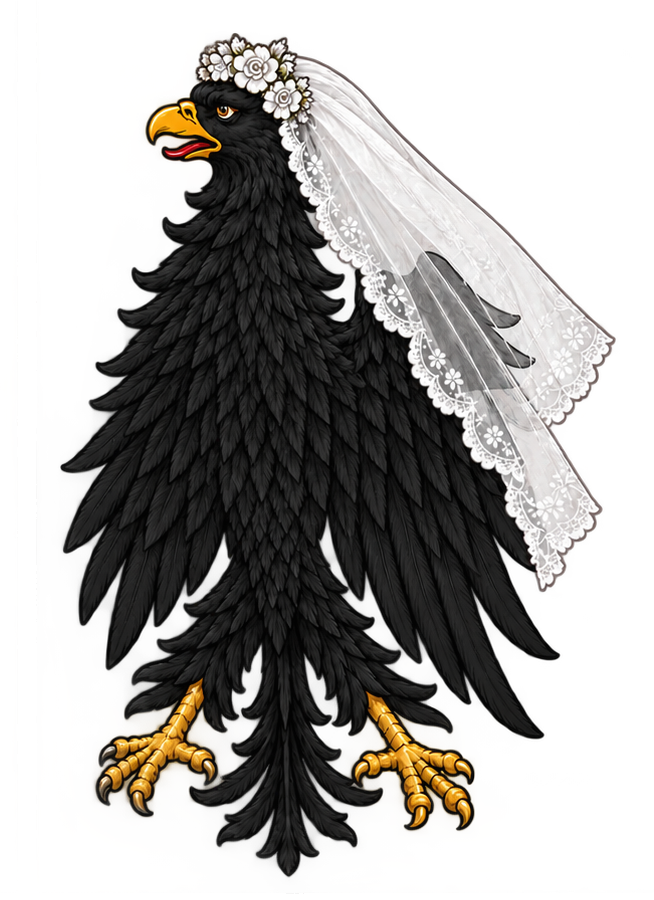
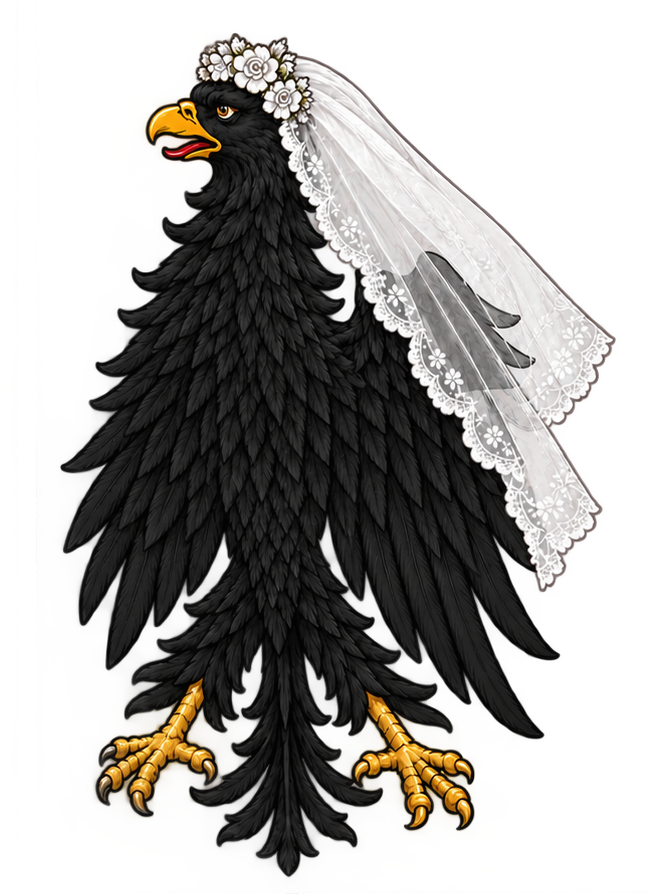
Add files via upload

diff --git a/index.html b/index.html
@@ -9,106 +9,84 @@
 <link href="https://fonts.googleapis.com/css2?family=Cormorant+Garamond:ital,wght@0,400;0,500;0,600;1,400&family=Jost:wght@400;500&display=swap" rel="stylesheet">
 <style>
   :root{
-    --cream:#f7f1e7;
-    --cream-hi:#fdf9f2;
-    --ink:#3b332a;
-    --muted:#9a8d78;
-    --gold:#b8860b;
-    --gold-line:rgba(184,134,11,.38);
-    --nl-red:#ae1c28; --nl-blue:#21468b;
-    --at-red:#ed2939;
+    --cream:#f7f1e7; --cream-hi:#fdf9f2;
+    --ink:#3b332a; --muted:#9a8d78; --gold:#b8860b;
+    --nl-red:#ae1c28; --nl-blue:#21468b; --at-red:#ed2939;
     --ease:cubic-bezier(.22,.61,.36,1);
-    /* embrace geometry (from the composed artwork) */
-    --hero-w:615; --hero-h:560;
+    --hero-w:621; --hero-h:560;
   }
   *{box-sizing:border-box}
   html,body{height:100%}
-  body{
-    margin:0;color:var(--ink);
-    font-family:"Jost",system-ui,sans-serif;
-    -webkit-font-smoothing:antialiased;
+  body{margin:0;color:var(--ink);font-family:"Jost",system-ui,sans-serif;-webkit-font-smoothing:antialiased;
     min-height:100dvh;display:flex;flex-direction:column;
-    background:radial-gradient(ellipse 80% 70% at 50% 40%, var(--cream-hi), var(--cream) 78%);
-    overflow-x:hidden;
-  }
+    background:radial-gradient(ellipse 80% 70% at 50% 40%, var(--cream-hi), var(--cream) 78%);overflow-x:hidden}
 
-  .prompt{
-    text-align:center;padding:clamp(20px,4.5vh,48px) 20px 0;
-    font-family:"Cormorant Garamond",serif;line-height:1.12;
-  }
-  .prompt .nl,.prompt .de{display:block;font-weight:500;color:var(--ink)}
-  .prompt .nl{font-size:clamp(1.5rem,3.2vw,2.3rem)}
+  .prompt{text-align:center;padding:clamp(20px,4.5vh,48px) 20px 0;font-family:"Cormorant Garamond",serif;line-height:1.12}
+  .prompt .nl,.prompt .de{display:block;font-weight:500}
+  .prompt .nl{font-size:clamp(1.5rem,3.2vw,2.3rem);color:var(--ink)}
   .prompt .de{font-size:clamp(1.35rem,2.9vw,2.05rem);color:#5c5142}
-  .prompt .sep{display:block;width:46px;height:1px;margin:9px auto;
-    background:linear-gradient(90deg,transparent,var(--gold),transparent)}
+  .prompt .sep{display:block;width:46px;height:1px;margin:9px auto;background:linear-gradient(90deg,transparent,var(--gold),transparent)}
 
   .stage{flex:1;display:flex;flex-direction:column;align-items:center;justify-content:center;
-    padding:6px clamp(12px,4vw,40px) 2px;gap:6px}
+    padding:8px clamp(12px,4vw,40px) clamp(20px,5vh,48px);gap:10px}
 
-  /* ---- Hero: embracing crest, two stacked layers ---- */
-  .hero{
-    position:relative;
-    width:min(90vw,600px);
-    aspect-ratio:var(--hero-w) / var(--hero-h);
-  }
+  /* Hero: embracing crest, two stacked layers */
+  .hero{position:relative;width:min(90vw,600px);aspect-ratio:var(--hero-w) / var(--hero-h)}
   .hero img{position:absolute;bottom:0;width:auto;user-select:none;-webkit-user-drag:none;
     transition:filter .55s var(--ease),opacity .55s var(--ease)}
-  .hero .eagle{left:33.8%;height:100%;z-index:1}
-  .hero .lion{left:0;height:92.86%;z-index:2}
+  .hero .eagle{left:34.14%;height:100%;z-index:1}
+  .hero .lion{left:0;height:100%;z-index:2}
   .glow{position:absolute;inset:0;z-index:0;pointer-events:none;opacity:0;
-    background:radial-gradient(circle at 50% 55%, rgba(184,134,11,.16), transparent 62%);
-    transition:opacity .5s var(--ease)}
+    background:radial-gradient(circle at 50% 55%, rgba(184,134,11,.15), transparent 62%);transition:opacity .5s var(--ease)}
 
-  /* invisible split hit areas */
-  .pick{position:absolute;top:0;height:100%;width:50%;z-index:3;
-    display:block;cursor:pointer;background:transparent;border:0;outline:none;
+  /* invisible split hit areas over the crest */
+  .hit{position:absolute;top:0;height:100%;width:50%;z-index:3;display:block;cursor:pointer;
     -webkit-tap-highlight-color:transparent}
-  .pick.nl{left:0}
-  .pick.de{left:50%}
-  .pick:focus-visible{box-shadow:inset 0 0 0 2px var(--gold);border-radius:10px}
+  .hit.nl{left:0}.hit.de{left:50%}
+  .hit:focus-visible{box-shadow:inset 0 0 0 2px var(--gold);border-radius:10px}
 
-  /* ---- Desktop hover preview ---- */
-  @media (hover:hover) and (pointer:fine){
-    .hero:has(.pick.nl:hover) .eagle,
-    .hero:has(.pick.de:hover) .lion{filter:grayscale(1);opacity:.42}
-    .hero:has(.pick:hover) .glow{opacity:1}
-  }
-  /* ---- Touch selection mirrors the effect ---- */
-  .hero.sel-nl .eagle{filter:grayscale(1);opacity:.42}
-  .hero.sel-de .lion{filter:grayscale(1);opacity:.42}
-  .hero.sel-nl .glow,.hero.sel-de .glow{opacity:1}
-
-  /* ---- Labels under each beast ---- */
+  /* labels — now clickable */
   .labels{display:flex;width:min(90vw,600px)}
   .cell{flex:1;display:flex;flex-direction:column;align-items:center;gap:12px}
-  .meta{display:flex;align-items:center;gap:11px;transition:opacity .4s var(--ease)}
+  .label-link{display:inline-flex;align-items:center;justify-content:center;text-decoration:none;color:inherit;
+    cursor:pointer;border-radius:12px;padding:8px 16px;-webkit-tap-highlight-color:transparent;
+    transition:background .2s var(--ease)}
+  .label-link:hover{background:rgba(184,134,11,.08)}
+  .label-link:focus-visible{outline:none;box-shadow:0 0 0 2px var(--gold)}
+  .meta{display:flex;align-items:center;gap:11px;transition:opacity .45s var(--ease),filter .45s var(--ease)}
   .flag{width:34px;height:23px;border-radius:2px;overflow:hidden;flex:none;display:flex;flex-direction:column;
-    box-shadow:0 0 0 1px rgba(59,51,42,.18),0 2px 6px rgba(59,51,42,.18);transition:filter .4s var(--ease)}
+    box-shadow:0 0 0 1px rgba(59,51,42,.18),0 2px 6px rgba(59,51,42,.16)}
   .flag span{display:block;flex:1}
   .flag.nl span:nth-child(1){background:var(--nl-red)} .flag.nl span:nth-child(2){background:#fff} .flag.nl span:nth-child(3){background:var(--nl-blue)}
   .flag.at span:nth-child(1){background:var(--at-red)} .flag.at span:nth-child(2){background:#fff} .flag.at span:nth-child(3){background:var(--at-red)}
-  .label{font-size:1.12rem;letter-spacing:.02em;color:var(--ink)}
-  /* dim the non-selected label */
-  .hero-has-nl ~ .labels .cell.de .meta{opacity:.4}
-  .hero-has-de ~ .labels .cell.nl .meta{opacity:.4}
+  .label{font-size:1.12rem;letter-spacing:.02em;color:var(--ink);transition:color .45s var(--ease)}
 
-  .go{margin-top:2px;font-family:"Jost",sans-serif;font-size:1rem;letter-spacing:.03em;
-    color:#fff;background:var(--gold);border:0;border-radius:999px;cursor:pointer;
-    height:0;padding:0;overflow:hidden;opacity:0;transform:translateY(6px) scale(.96);pointer-events:none;
+  .go{font-family:"Jost",sans-serif;font-size:1rem;letter-spacing:.03em;color:#fff;background:var(--gold);
+    border:0;border-radius:999px;cursor:pointer;height:0;padding:0;overflow:hidden;
+    opacity:0;transform:translateY(6px) scale(.96);pointer-events:none;
     transition:opacity .35s var(--ease),transform .35s var(--ease),background .2s}
   .cell.show-go .go{height:auto;padding:11px 28px;opacity:1;transform:none;pointer-events:auto}
   .go:hover{background:#caa02a}
 
-  .crest{text-align:center;padding:8px 20px clamp(16px,4vh,32px)}
-  .crest img{width:min(300px,60vw);height:auto;opacity:.98}
-
-  /* Mobile: labels sit closer, hero a touch smaller */
-  @media (max-width:560px){
-    .hero{width:94vw}
-    .labels{width:94vw}
-    .label{font-size:1rem}
-    .crest img{width:min(260px,72vw)}
+  /* ===== Selection effects: the chosen side stays in colour, the other greys ===== */
+  @media (hover:hover) and (pointer:fine){
+    .stage:has(.choose.nl:hover) .eagle{filter:grayscale(1);opacity:.42}
+    .stage:has(.choose.de:hover) .lion{filter:grayscale(1);opacity:.42}
+    .stage:has(.choose.nl:hover) .cell.de .meta,
+    .stage:has(.choose.de:hover) .cell.nl .meta{filter:grayscale(1);opacity:.4}
+    .stage:has(.choose.nl:hover) .cell.de .label,
+    .stage:has(.choose.de:hover) .cell.nl .label{color:var(--muted)}
+    .stage:has(.choose:hover) .glow{opacity:1}
   }
+  .stage.sel-nl .eagle{filter:grayscale(1);opacity:.42}
+  .stage.sel-de .lion{filter:grayscale(1);opacity:.42}
+  .stage.sel-nl .cell.de .meta,
+  .stage.sel-de .cell.nl .meta{filter:grayscale(1);opacity:.4}
+  .stage.sel-nl .cell.de .label,
+  .stage.sel-de .cell.nl .label{color:var(--muted)}
+  .stage.sel-nl .glow,.stage.sel-de .glow{opacity:1}
+
+  @media (max-width:560px){.hero{width:94vw}.labels{width:94vw}.label{font-size:1rem}}
   @media (prefers-reduced-motion:reduce){*{transition-duration:.001ms!important}}
 </style>
 </head>
@@ -119,74 +97,56 @@
     <span class="de">Wähle deine Sprache</span>
   </div>
 
-  <main class="stage">
-    <div class="hero" id="hero">
+  <main class="stage" id="stage">
+    <div class="hero">
       <span class="glow" aria-hidden="true"></span>
       <img class="eagle" src="assets/eagle.png" alt="" aria-hidden="true" draggable="false">
       <img class="lion"  src="assets/lion.png"  alt="" aria-hidden="true" draggable="false">
-      <a class="pick nl" href="lorem_nl.html" data-lang="nl" aria-label="Nederlands"></a>
-      <a class="pick de" href="lorem_de.html" data-lang="de" aria-label="Deutsch"></a>
+      <a class="hit choose nl" href="lorem_nl.html" data-lang="nl" aria-label="Nederlands"></a>
+      <a class="hit choose de" href="lorem_de.html" data-lang="de" aria-label="Deutsch"></a>
     </div>
 
-    <div class="labels" id="labels">
+    <div class="labels">
       <div class="cell nl">
-        <span class="meta"><span class="flag nl" aria-hidden="true"><span></span><span></span><span></span></span><span class="label">Nederlands</span></span>
+        <a class="label-link choose nl" href="lorem_nl.html" data-lang="nl">
+          <span class="meta"><span class="flag nl" aria-hidden="true"><span></span><span></span><span></span></span><span class="label">Nederlands</span></span>
+        </a>
         <button class="go" type="button" data-go="lorem_nl.html" tabindex="-1">Ga verder</button>
       </div>
       <div class="cell de">
-        <span class="meta"><span class="flag at" aria-hidden="true"><span></span><span></span><span></span></span><span class="label">Deutsch</span></span>
+        <a class="label-link choose de" href="lorem_de.html" data-lang="de">
+          <span class="meta"><span class="flag at" aria-hidden="true"><span></span><span></span><span></span></span><span class="label">Deutsch</span></span>
+        </a>
         <button class="go" type="button" data-go="lorem_de.html" tabindex="-1">Weiter</button>
       </div>
     </div>
   </main>
 
-  <footer class="crest"><img src="assets/base.png" alt="" aria-hidden="true"></footer>
-
 <script>
 (function(){
-  var hero=document.getElementById('hero');
-  var labels=document.getElementById('labels');
-  var picks=Array.prototype.slice.call(hero.querySelectorAll('.pick'));
+  var stage=document.getElementById('stage');
+  var choose=Array.prototype.slice.call(stage.querySelectorAll('.choose'));
+  var cells={nl:stage.querySelector('.cell.nl'),de:stage.querySelector('.cell.de')};
   var canHover=window.matchMedia('(hover:hover) and (pointer:fine)').matches;
   function go(href){window.location.href=href;}
 
-  // desktop: hover previews via CSS; also mirror label dim by toggling a class
-  if(canHover){
-    picks.forEach(function(p){
-      var lang=p.dataset.lang;
-      p.addEventListener('mouseenter',function(){
-        labels.className='labels'; // reset
-        labels.classList.add(lang==='nl'?'lion-side':'eagle-side');
-        document.querySelectorAll('.cell').forEach(function(c){c.classList.remove('dim')});
-        (lang==='nl'?labels.querySelector('.cell.de'):labels.querySelector('.cell.nl')).classList.add('dim');
-      });
-      p.addEventListener('mouseleave',function(){
-        document.querySelectorAll('.cell').forEach(function(c){c.classList.remove('dim')});
-      });
-    });
-  }else{
-    // touch: first tap selects + shows continue, second tap navigates
-    picks.forEach(function(p){
-      var lang=p.dataset.lang, href=p.getAttribute('href');
-      p.addEventListener('click',function(e){
+  if(!canHover){
+    choose.forEach(function(el){
+      var lang=el.dataset.lang, href=el.getAttribute('href');
+      el.addEventListener('click',function(e){
         e.preventDefault();
-        if(hero.classList.contains('sel-'+lang)){go(href);return;}
-        hero.classList.remove('sel-nl','sel-de');
-        hero.classList.add('sel-'+lang);
-        var cells=labels.querySelectorAll('.cell');
-        cells.forEach(function(c){c.classList.remove('show-go')});
-        labels.querySelector('.cell.'+lang).classList.add('show-go');
+        if(stage.classList.contains('sel-'+lang)){go(href);return;}
+        stage.classList.remove('sel-nl','sel-de');
+        cells.nl.classList.remove('show-go');cells.de.classList.remove('show-go');
+        stage.classList.add('sel-'+lang);
+        cells[lang].classList.add('show-go');
       });
     });
-    labels.querySelectorAll('.go').forEach(function(b){
+    stage.querySelectorAll('.go').forEach(function(b){
       b.addEventListener('click',function(e){e.preventDefault();e.stopPropagation();go(b.dataset.go);});
     });
   }
 })();
 </script>
-<style>
-  /* label dim helper for desktop hover (JS-toggled) */
-  .cell.dim .meta{opacity:.4}
-</style>
 </body>
 </html>

diff --git a/README.md b/README.md
@@ -5,7 +5,7 @@ Statischer Prototyp der Sprachauswahl mit dem Wappen. Löwe und Adler „liegen 
 ## Dateien
 - `index.html` – Sprachauswahl (linke Hälfte = Löwe = Nederlands, rechte Hälfte = Adler = Deutsch)
 - `lorem_de.html` / `lorem_nl.html` – Platzhalter-Zielseiten (später durch die echten Seiten ersetzen)
-- `assets/` – transparente Wappen-Teile: `lion.png`, `eagle.png`, `base.png`
+- `assets/` – transparente Wappen-Teile: `lion.png`, `eagle.png`
 
 ## Interaktion
 - **Desktop:** Maus über die linke/rechte Hälfte → die jeweils andere Figur wird grau; Klick führt weiter.
